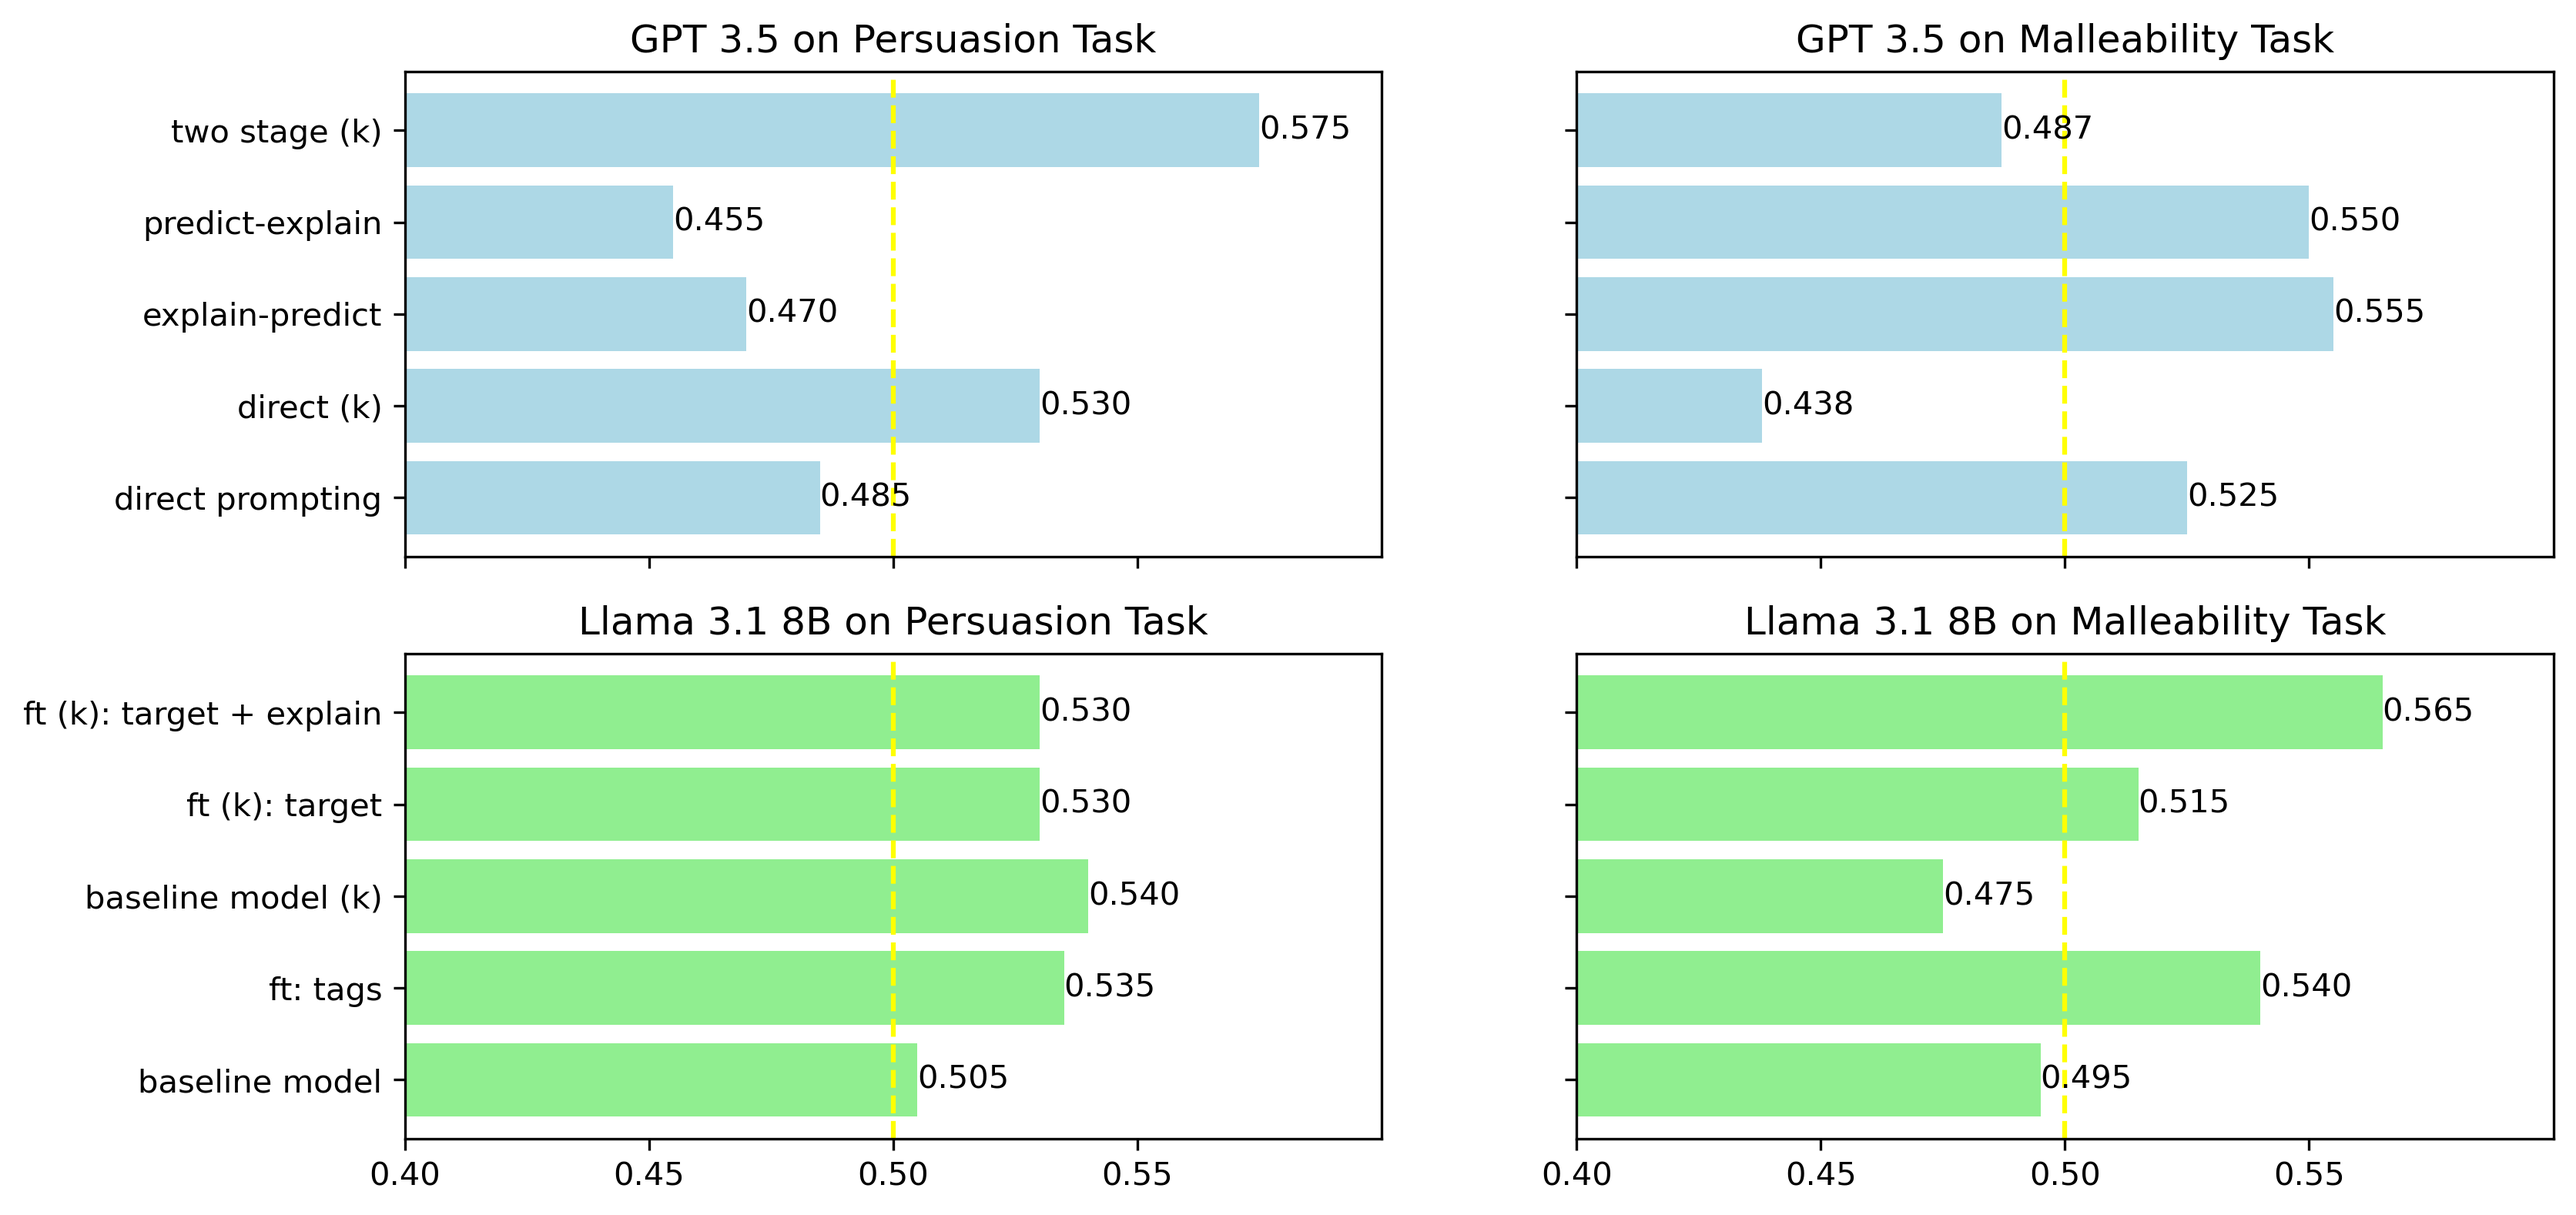
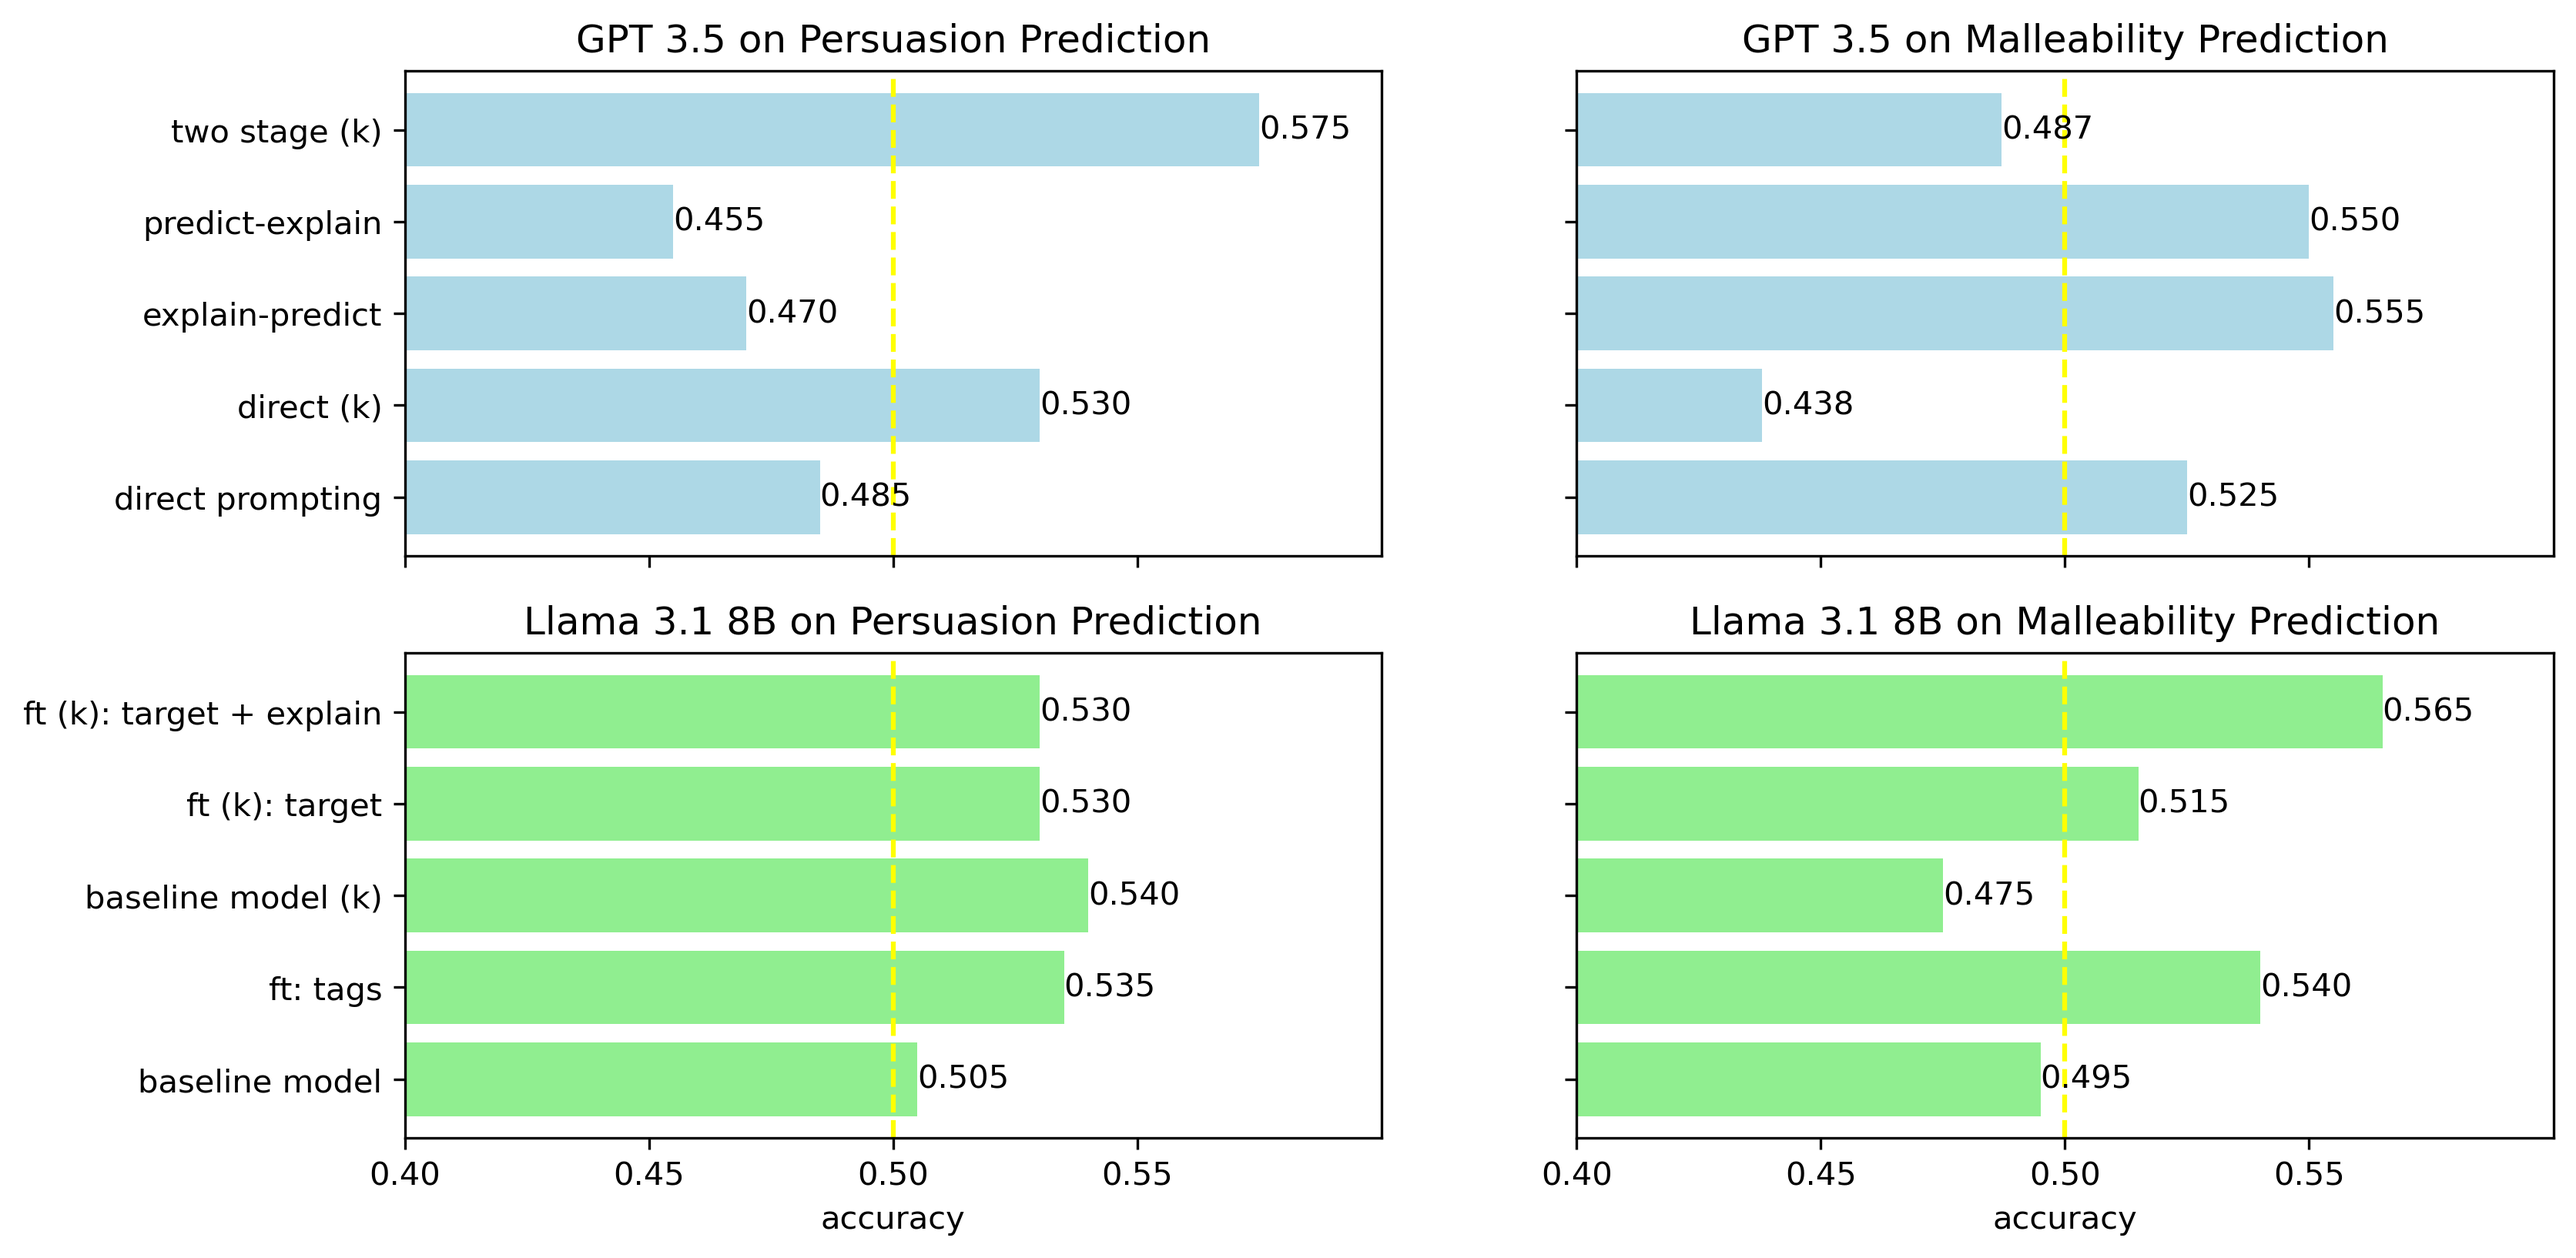
added graph

diff --git a/README.md b/README.md
@@ -43,6 +43,7 @@ finetuning so that I can run it on my PC. For training, I randomly selected 1000
 
 ## Discussions:
 ![image](graph.png)
+*(k) means the LLMs were prompted with knowledge. ft means finetuning. Baseline model is the pretrained Llama 3.1 8B.*
 - *I only discuss the behaviors of models that involved in this project, more advanced model may perform differently.* 
 - *Also note that the accuracy rates of each method vary at each implementation since there are randomness during 
   training. All results came from my last run.*
